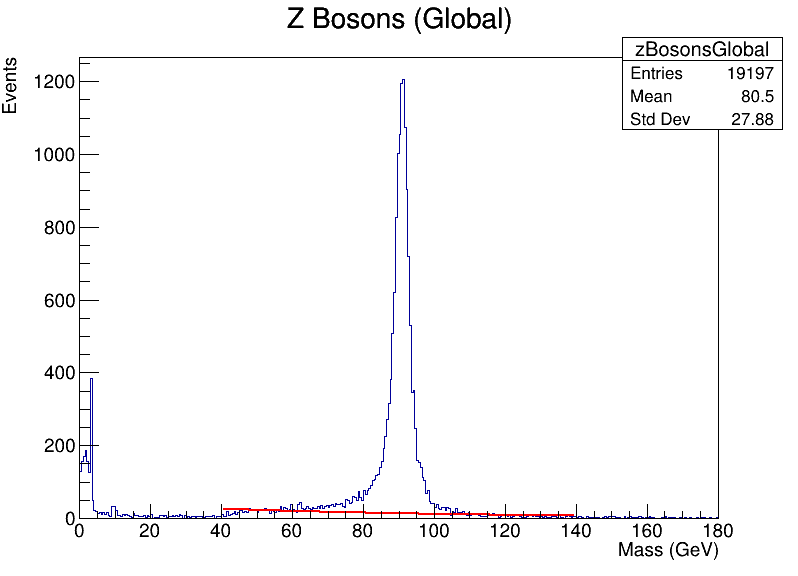
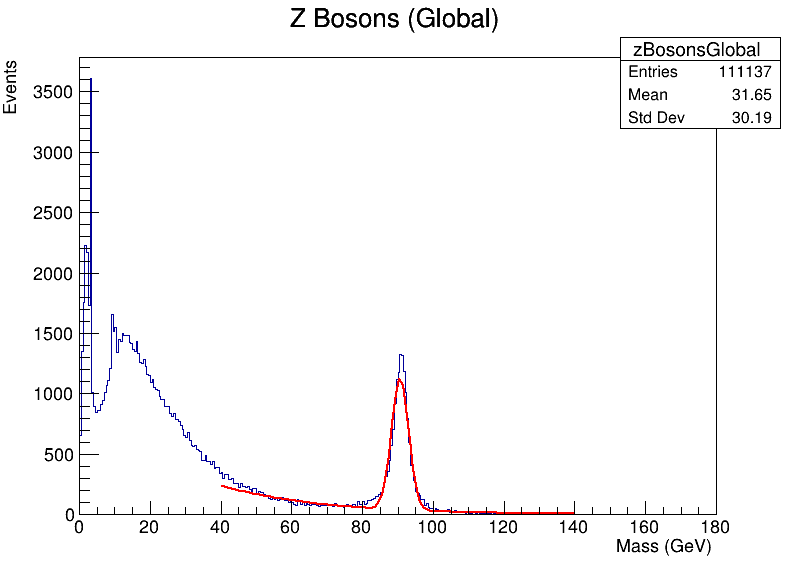
hist with data2

Changed region(s): [[0.0, 0.0594, 0.995, 0.9808], [0.3618, 0.0, 0.6633, 0.0594]]

diff --git a/Analysis/drawHistograms.C b/Analysis/drawHistograms.C
@@ -7,7 +7,7 @@
 #include "TCanvas.h"
 
 void drawHistograms() {
-    TFile *file = new TFile("data.root", "READ");
+    TFile *file = new TFile("data2.root", "READ");
     if (!file || file->IsZombie()) {
         std::cerr << "Error opening file" << std::endl;
         return;
